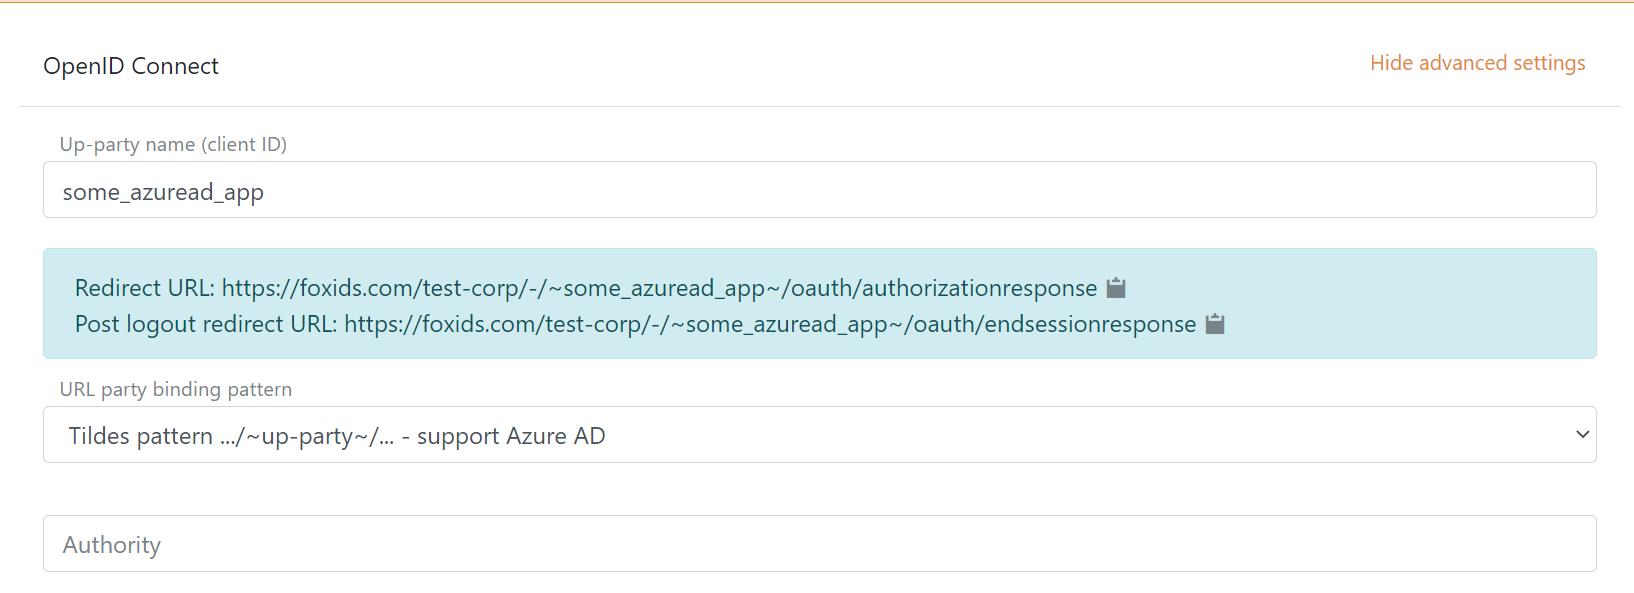
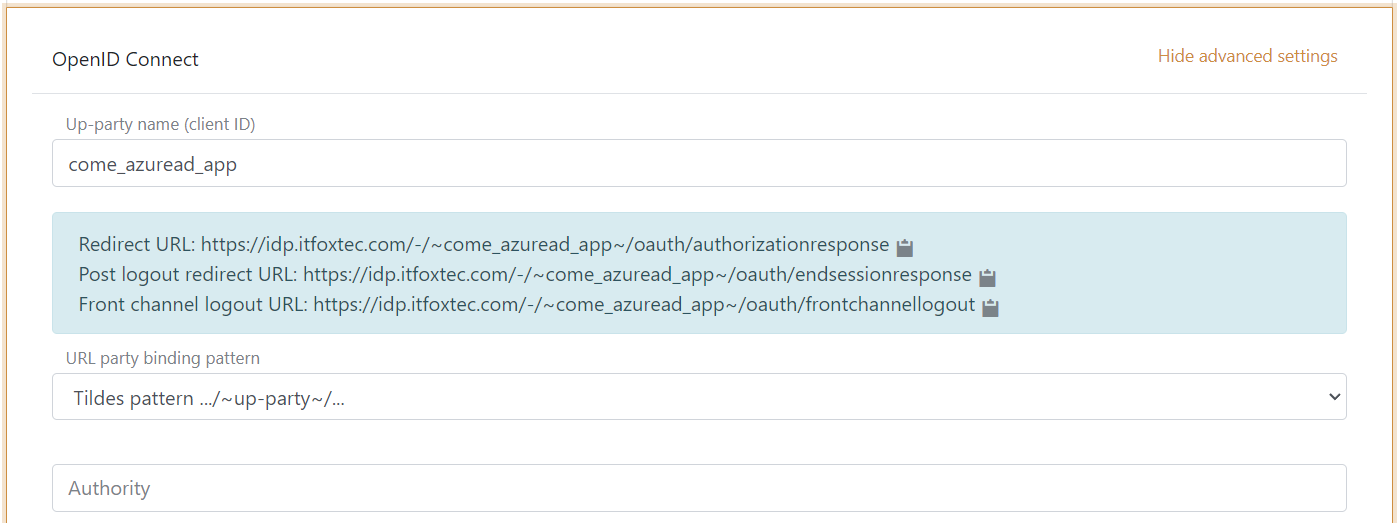
Azure AD add Front channel logout URL

Changed region(s): [[0.0, 0.0, 1.0, 1.0]]

diff --git a/docs/up-party-howto-oidc-azure-ad.md b/docs/up-party-howto-oidc-azure-ad.md
@@ -21,7 +21,7 @@ This chapter describes how to configure a Azure AD single tenant connection with
 
 ![Read the redirect URLs](images/howto-oidc-azuread-readredirect.png)
 
-It is now possible to read the `Redirect URL` and `Post logout redirect URL`.
+It is now possible to read the `Redirect URL` and `Front channel logout URL`.
 
 **2 - Then go to Azure Portal and create the Azure AD App**
 
@@ -31,7 +31,7 @@ It is now possible to read the `Redirect URL` and `Post logout redirect URL`.
  4. Click Register
  5. Copy the Application (client) ID
  6. Copy the Directory (tenant) ID
- 7. Go to the Authentication tab and add the FoxIDs up-party `Post logout redirect URL` as `Front-channel logout URL`, click save
+ 7. Go to the Authentication tab and add the FoxIDs up-party `Front channel logout URL`, click save
  8. Go to the Certificates & secrets tab and click New client secret and add the secret
  9. Copy the client secret value
  10. Go to the Token configuration tab and click Add optional claims. Then select ID (for adding claims to the ID token) and select email, family_name, given_name, ipaddr, preferred_username and click Add twice. 

diff --git a/docs/up-party-howto-oidc-azure-ad-b2c.md b/docs/up-party-howto-oidc-azure-ad-b2c.md
@@ -14,7 +14,7 @@ This chapter describes how to configure a connection with OpenID Connect Authori
 
 ![Read the redirect URLs](images/howto-oidc-azuread-readredirect.png)
 
-It is now possible to read the `Redirect URL` and `Post logout redirect URL`.
+It is now possible to read the `Redirect URL`, `Post logout redirect URL` and `Front channel logout URL`.
 
 **2 - Then go to Azure AD B2C and create the app profile**
 
